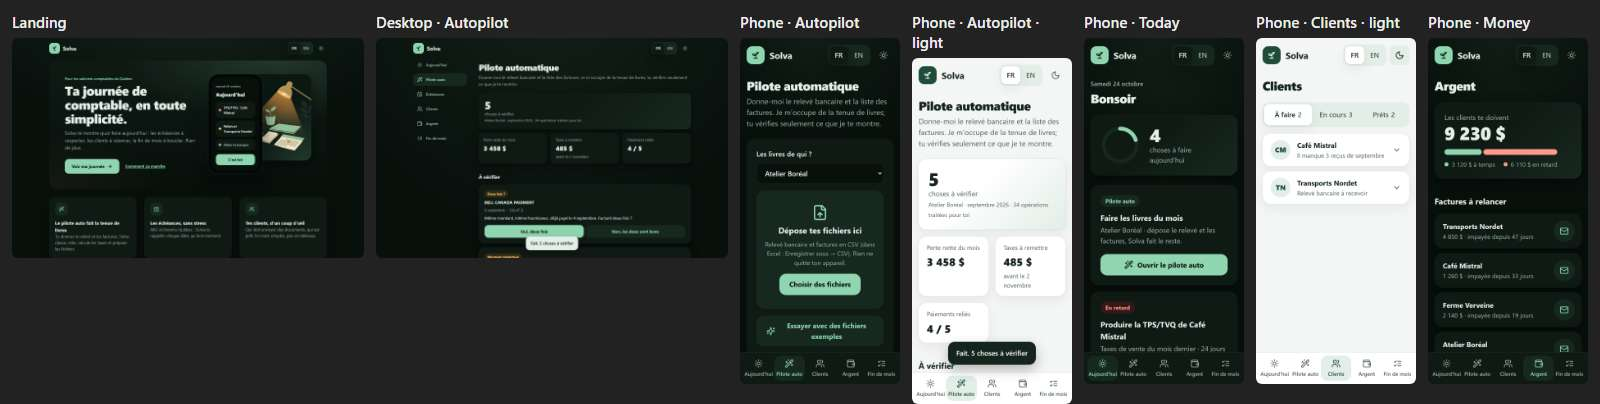
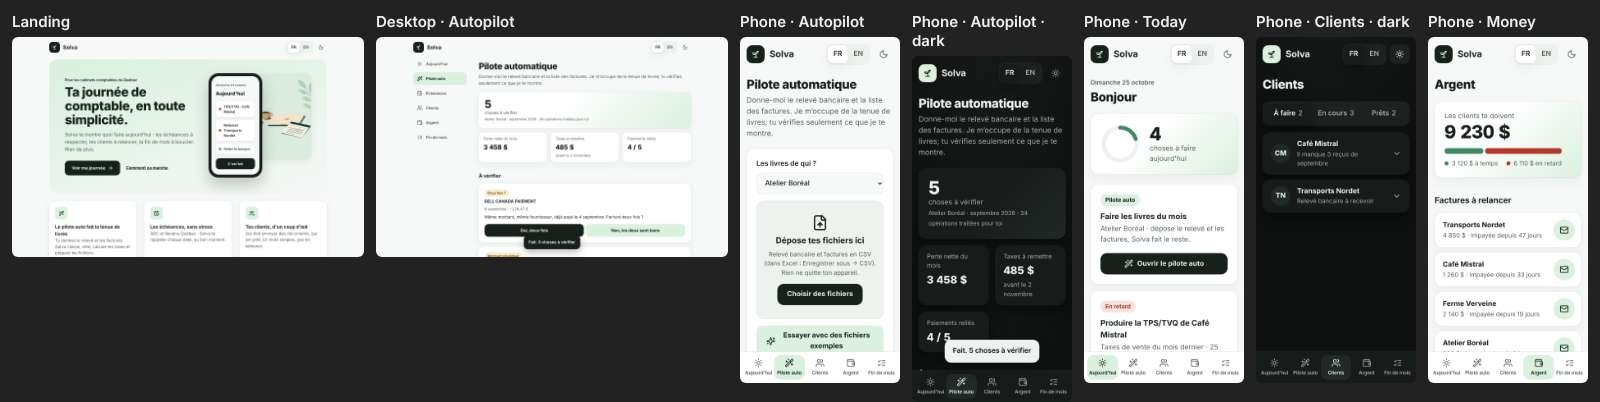
Less green: #DAF1DE tint on neutral ink, light by default
- Tokens: neutral white/ink base, #DAF1DE as the brand tint, ink primary buttons;
  dark mode is charcoal with mint accent instead of deep green
- Dark hero art: green room desaturated to charcoal (mint objects kept)
- Neutral tracks for progress/ring/segmented control; theme-color follows the theme
- Phone nav labels fit (no more truncation); shots.py toggles to dark now

Claude-Session: https://claude.ai/code/session_01DefgPRpkaTHuDpAgehubuH

diff --git a/style.css b/style.css
@@ -1,42 +1,46 @@
-/* Solva: phone-first, calm, one accent (green). Dark by default. Tokens follow webd. */
+/* Solva: phone-first, calm. Brand tint #DAF1DE on neutral ink + white; green only as a soft tint or "done". Light by default. Tokens follow webd. */
 :root {
-  --bg: #f3f6f4;
+  --bg: #f7f9f8;
   --surface: #ffffff;
-  --ink: #15241d;
-  --muted: #4c5f56;
-  --line: #dde6e0;
-  --accent: #1f4d3a;
-  --accent-ink: #1f4d3a;
-  --on-accent: #ffffff;
-  --tint: #e2eee7;
-  --ring: #2e7a59;
+  --ink: #17201b;
+  --muted: #56625b;
+  --line: #e2e8e4;
+  --accent: #17201b;
+  --accent-ink: #17201b;
+  --on-accent: #daf1de;
+  --tint: #daf1de;
+  --soft: #eef2ef;
+  --ring: #3f8a62;
   --red: #b23a2c;
   --red-tint: #f8e3df;
   --amber: #8a5800;
   --amber-tint: #fbedd2;
-  --shadow: 0 0 0 1px rgba(21, 36, 29, .05), 0 1px 2px rgba(21, 36, 29, .05), 0 10px 28px rgba(21, 36, 29, .06);
-  --hero: radial-gradient(120% 90% at 85% 10%, #d3e8dc 0%, rgba(211, 232, 220, 0) 60%), linear-gradient(180deg, #e9f2ed, #f3f6f4);
+  --shadow: 0 0 0 1px rgba(23, 32, 27, .05), 0 1px 2px rgba(23, 32, 27, .04), 0 10px 28px rgba(23, 32, 27, .05);
+  --hero: linear-gradient(160deg, #daf1de 0%, #e9f5ec 55%, #f7f9f8 100%);
+  --frame: #17201b;
   --r: 20px;
   color-scheme: light;
 }
 [data-theme="dark"] {
-  --bg: #08100c;
-  --surface: #101a15;
-  --ink: #e5efe9;
-  --muted: #9bb1a5;
-  --line: #1c2b24;
-  --accent: #8fd6b0;
-  --accent-ink: #8fd6b0;
-  --on-accent: #08100c;
-  --tint: #172820;
-  --ring: #8fd6b0;
+  --bg: #0e1110;
+  --surface: #171b19;
+  --ink: #edf2ee;
+  --muted: #a4ada8;
+  --line: #262c29;
+  --accent: #daf1de;
+  --accent-ink: #daf1de;
+  --on-accent: #0e1110;
+  --tint: #222926;
+  --soft: #1d2220;
+  --ring: #9fd8b4;
   --red: #ff9a8a;
   --red-tint: #33191a;
   --amber: #f3c46e;
   --amber-tint: #332914;
-  --shadow: 0 0 0 1px rgba(143, 214, 176, .07), 0 1px 2px rgba(0, 0, 0, .4), 0 12px 32px rgba(0, 0, 0, .35);
-  --hero: radial-gradient(90% 80% at 80% 0%, rgba(143, 214, 176, .16) 0%, rgba(143, 214, 176, 0) 60%), radial-gradient(60% 60% at 0% 100%, rgba(243, 196, 110, .06), rgba(243, 196, 110, 0) 70%), linear-gradient(180deg, #0f1a15, #08100c);
-  --glow: radial-gradient(70% 40% at 50% -10%, rgba(143, 214, 176, .09), rgba(143, 214, 176, 0));
+  --shadow: 0 0 0 1px rgba(255, 255, 255, .05), 0 1px 2px rgba(0, 0, 0, .4), 0 12px 32px rgba(0, 0, 0, .35);
+  --hero: radial-gradient(70% 70% at 85% 0%, rgba(243, 196, 110, .07), rgba(243, 196, 110, 0) 70%), linear-gradient(180deg, #181c1a, #0e1110);
+  --glow: radial-gradient(70% 40% at 50% -10%, rgba(218, 241, 222, .05), rgba(218, 241, 222, 0));
+  --frame: #050606;
   color-scheme: dark;
 }
 
@@ -68,9 +72,9 @@ svg.lucide { width: 22px; height: 22px; stroke-width: 2; flex: none; }
 .logo { display: grid; place-items: center; width: 44px; height: 44px; border-radius: 14px; background: var(--accent); color: var(--on-accent); }
 .settings { display: flex; align-items: center; gap: 8px; }
 .icon-btn { display: grid; place-items: center; width: 48px; height: 48px; border-radius: 14px; color: var(--muted); }
-.icon-btn:hover { background: var(--tint); color: var(--ink); }
+.icon-btn:hover { background: var(--soft); color: var(--ink); }
 
-.seg { display: flex; padding: 4px; border-radius: 16px; background: var(--tint); }
+.seg { display: flex; padding: 4px; border-radius: 16px; background: var(--soft); }
 .seg button { flex: 1; min-height: 44px; padding: 8px 14px; border-radius: 12px; font-weight: 600; color: var(--muted); transition: background .2s, color .2s; white-space: nowrap; }
 .seg button[aria-checked="true"] { background: var(--surface); color: var(--ink); box-shadow: var(--shadow); }
 .seg.wide { margin: 24px 0 16px; }
@@ -80,7 +84,7 @@ svg.lucide { width: 22px; height: 22px; stroke-width: 2; flex: none; }
 .nav { position: fixed; z-index: 10; left: 0; right: 0; bottom: 0; display: flex; justify-content: space-around; padding: 8px 8px calc(8px + env(safe-area-inset-bottom));
   background: var(--surface); border-top: 1px solid var(--line); }
 .nav a { flex: 1; max-width: 120px; min-width: 0; display: flex; flex-direction: column; align-items: center; gap: 4px; min-height: 60px; padding: 8px 2px; border-radius: 16px;
-  color: var(--muted); text-decoration: none; font-size: 13px; font-weight: 600; }
+  color: var(--muted); text-decoration: none; font-size: 12px; font-weight: 600; letter-spacing: -.01em; }
 .nav a span { max-width: 100%; overflow: hidden; text-overflow: ellipsis; white-space: nowrap; }
 .nav a[aria-current="page"] { color: var(--accent-ink); background: var(--tint); }
 .is-home .nav { display: none; }
@@ -108,8 +112,8 @@ svg.lucide { width: 22px; height: 22px; stroke-width: 2; flex: none; }
 .pill { display: inline-block; font-size: 14px; font-weight: 700; padding: 4px 12px; border-radius: 99px; white-space: nowrap; background: var(--tint); color: var(--accent-ink); }
 .pill.red { background: var(--red-tint); color: var(--red); }
 .pill.amber { background: var(--amber-tint); color: var(--amber); }
-.progress { display: block; height: 12px; border-radius: 99px; background: var(--tint); overflow: hidden; }
-.progress > span { display: block; height: 100%; border-radius: inherit; background: var(--accent); transition: width .6s cubic-bezier(.3, .9, .3, 1); }
+.progress { display: block; height: 12px; border-radius: 99px; background: var(--soft); overflow: hidden; }
+.progress > span { display: block; height: 100%; border-radius: inherit; background: var(--ring); transition: width .6s cubic-bezier(.3, .9, .3, 1); }
 .dot { display: inline-block; width: 10px; height: 10px; border-radius: 50%; background: var(--ring); flex: none; }
 .dot.red { background: var(--red); } .dot.amber { background: var(--amber); }
 
@@ -119,7 +123,7 @@ svg.lucide { width: 22px; height: 22px; stroke-width: 2; flex: none; }
 .answer p { color: var(--muted); }
 .ring { width: 96px; height: 96px; transform: rotate(-90deg); flex: none; }
 .ring circle { fill: none; stroke-width: 12; stroke-linecap: round; }
-.ring-bg { stroke: var(--tint); }
+.ring-bg { stroke: var(--soft); }
 .ring-fg { stroke: var(--ring); stroke-dasharray: 314.16; stroke-dashoffset: 314.16; transition: stroke-dashoffset .8s cubic-bezier(.3, .9, .3, 1); }
 
 /* list rows: lots of air, no borders between */
@@ -197,8 +201,8 @@ svg.lucide { width: 22px; height: 22px; stroke-width: 2; flex: none; }
 .land-art { grid-area: 1 / 1; justify-self: end; width: 84%; aspect-ratio: 1; height: auto; object-fit: cover; border-radius: 28px; box-shadow: var(--shadow); }
 .land-art.night, [data-theme="dark"] .land-art.day { display: none; }
 [data-theme="dark"] .land-art.night { display: block; }
-[data-theme="dark"] .phone { background: #030806; box-shadow: 0 0 0 1px rgba(143, 214, 176, .18), 0 30px 70px rgba(0, 0, 0, .6), 0 0 80px rgba(143, 214, 176, .08); }
-.phone { position: relative; margin: 0 auto; width: 260px; max-width: 100%; padding: 12px; border-radius: 40px; background: #1f4d3a; box-shadow: 0 30px 60px rgba(21, 36, 29, .22); }
+[data-theme="dark"] .phone { box-shadow: 0 0 0 1px rgba(255, 255, 255, .1), 0 30px 70px rgba(0, 0, 0, .6); }
+.phone { position: relative; margin: 0 auto; width: 260px; max-width: 100%; padding: 12px; border-radius: 40px; background: var(--frame); box-shadow: 0 30px 60px rgba(23, 32, 27, .22); }
 .phone-screen { border-radius: 30px; background: var(--bg); padding: 28px 18px 22px; display: grid; gap: 10px; font-size: 14px; }
 .ph-date { color: var(--muted); font-size: 12px; font-weight: 600; }
 .ph-title { font-size: 20px; font-weight: 800; margin-bottom: 6px; }
@@ -250,7 +254,7 @@ svg.lucide { width: 22px; height: 22px; stroke-width: 2; flex: none; }
 .feed { display: grid; gap: 16px; margin-top: 24px; }
 .field { display: grid; gap: 8px; font-weight: 600; }
 .field select { min-height: 52px; padding: 0 16px; border-radius: 14px; border: 1px solid var(--line); background: var(--bg); color: var(--ink); font: inherit; font-weight: 500; width: 100%; }
-.drop { display: grid; justify-items: center; gap: 8px; width: 100%; padding: 32px 16px; border: 2px dashed var(--line); border-radius: var(--r); background: var(--tint); color: var(--ink); text-align: center; cursor: pointer; font: inherit; }
+.drop { display: grid; justify-items: center; gap: 8px; width: 100%; padding: 32px 16px; border: 2px dashed var(--line); border-radius: var(--r); background: var(--soft); color: var(--ink); text-align: center; cursor: pointer; font: inherit; }
 .drop > svg { width: 40px; height: 40px; color: var(--accent-ink); }
 .drop b { font-size: 20px; }
 .drop small { color: var(--muted); max-width: 42ch; font-size: 15px; }

diff --git a/app.js b/app.js
@@ -186,7 +186,7 @@ const CLIENTS = [
 
 const state = {
   lang: 'fr',
-  theme: 'dark',
+  theme: 'light',
   route: 'home',
   filter: 'action',
   open: null,
@@ -211,12 +211,12 @@ const state = {
   ],
 };
 try { // per-viewer conveniences only
-  const saved = JSON.parse(localStorage.getItem('solva-v2') || '{}');
+  const saved = JSON.parse(localStorage.getItem('solva-v3') || '{}');
   if (saved.lang in T) state.lang = saved.lang;
   if (saved.theme === 'dark' || saved.theme === 'light') state.theme = saved.theme;
   state.auto.memory = JSON.parse(localStorage.getItem('solva-memory') || '{}'); // vendors you taught Autopilot
 } catch (e) { /* storage blocked: defaults are fine */ }
-function save() { try { localStorage.setItem('solva-v2', JSON.stringify({ lang: state.lang, theme: state.theme })); } catch (e) { /* ignore */ } }
+function save() { try { localStorage.setItem('solva-v3', JSON.stringify({ lang: state.lang, theme: state.theme })); } catch (e) { /* ignore */ } }
 
 const $ = (s) => document.querySelector(s);
 const t = () => T[state.lang];
@@ -303,6 +303,7 @@ function renderShell() {
     b.setAttribute('aria-checked', on); b.tabIndex = on ? 0 : -1;
   });
   const dark = state.theme === 'dark';
+  document.querySelector('meta[name="theme-color"]').content = dark ? '#0e1110' : '#f7f9f8';
   const tb = $('#themeBtn');
   tb.innerHTML = `<i data-lucide="${dark ? 'sun' : 'moon'}"></i>`;
   tb.setAttribute('aria-label', dark ? t().light : t().dark);

diff --git a/index.html b/index.html
@@ -3,7 +3,7 @@
 <head>
 <meta charset="utf-8">
 <meta name="viewport" content="width=device-width, initial-scale=1, viewport-fit=cover">
-<meta name="theme-color" content="#08100c">
+<meta name="theme-color" content="#f7f9f8">
 <title>Solva</title>
 <link rel="preconnect" href="https://fonts.googleapis.com">
 <link rel="preconnect" href="https://fonts.gstatic.com" crossorigin>
@@ -45,8 +45,8 @@
           </div>
         </div>
         <div class="land-visual" aria-hidden="true">
-        <img class="land-art night" src="assets/hero-dark.jpg" alt="" width="840" height="840">
-        <img class="land-art day" src="assets/hero.jpg" alt="" width="840" height="840" loading="lazy">
+        <img class="land-art day" src="assets/hero.jpg" alt="" width="840" height="840">
+        <img class="land-art night" src="assets/hero-dark.jpg" alt="" width="840" height="840" loading="lazy">
         <div class="phone">
           <div class="phone-screen">
             <p class="ph-date" id="phDate"></p>

diff --git a/tools/shots.py b/tools/shots.py
@@ -32,16 +32,16 @@ def sheet(page, shots):
     page.screenshot(path=OUT / 'sheet.jpg', full_page=True, type='jpeg', quality=60)
 
 
-def shot(b, route, w, h, light=False, full=False, mobile=False, sample=False):
+def shot(b, route, w, h, dark=False, full=False, mobile=False, sample=False):
     pg = b.new_page(viewport={'width': w, 'height': h}, device_scale_factor=2 if mobile else 1, is_mobile=mobile, has_touch=mobile)
     pg.goto(URL + route, wait_until='networkidle')
-    if light:  # dark is the default; the toggle switches to light
+    if dark:  # light is the default; the toggle switches to dark
         pg.click('[data-theme-toggle]')
     if sample:  # Autopilot: feed it the sample files and wait for the output
         pg.click('[data-sample]')
         pg.wait_for_selector('#autoAnswer')
     pg.wait_for_timeout(600)
-    name = (route.strip('#/') or 'home') + ('-light' if light else '') + ('-phone' if mobile else '') + ('-done' if sample else '')
+    name = (route.strip('#/') or 'home') + ('-dark' if dark else '') + ('-phone' if mobile else '') + ('-done' if sample else '')
     return pg.screenshot(path=OUT / f'{name}.png', full_page=full)
 
 
@@ -50,9 +50,9 @@ with sync_playwright() as p:
     shots = [('Landing', shot(b, '', 1440, 900)),
              ('Desktop · Autopilot', shot(b, '#/auto', 1440, 900, sample=True)),
              ('Phone · Autopilot', shot(b, '#/auto', 390, 844, mobile=True)),
-             ('Phone · Autopilot · light', shot(b, '#/auto', 390, 844, light=True, mobile=True, sample=True)),
+             ('Phone · Autopilot · dark', shot(b, '#/auto', 390, 844, dark=True, mobile=True, sample=True)),
              ('Phone · Today', shot(b, '#/today', 390, 844, mobile=True)),
-             ('Phone · Clients · light', shot(b, '#/clients', 390, 844, light=True, mobile=True)),
+             ('Phone · Clients · dark', shot(b, '#/clients', 390, 844, dark=True, mobile=True)),
              ('Phone · Money', shot(b, '#/money', 390, 844, mobile=True))]
     sheet(b.new_page(), shots)
     b.close()

diff --git a/README.md b/README.md
@@ -1,7 +1,7 @@
 # Solva
 
 Phone-first mock app for a Québec accounting firm (cabinet comptable), made for someone who doesn't love tech:
-one clear thing per screen, big buttons, plain words, dark green. Bilingual FR-CA / EN-CA, light and dark.
+one clear thing per screen, big buttons, plain words. Pale mint (#DAF1DE) on white and ink; light by default, charcoal dark mode. Bilingual FR-CA / EN-CA, light and dark.
 Live: https://ghostaiproject.github.io/ledger-mockup/
 
 Built with the `webd` skill (Ghostskills). Static HTML/CSS/JS, fake data, nothing is filed or sent.
